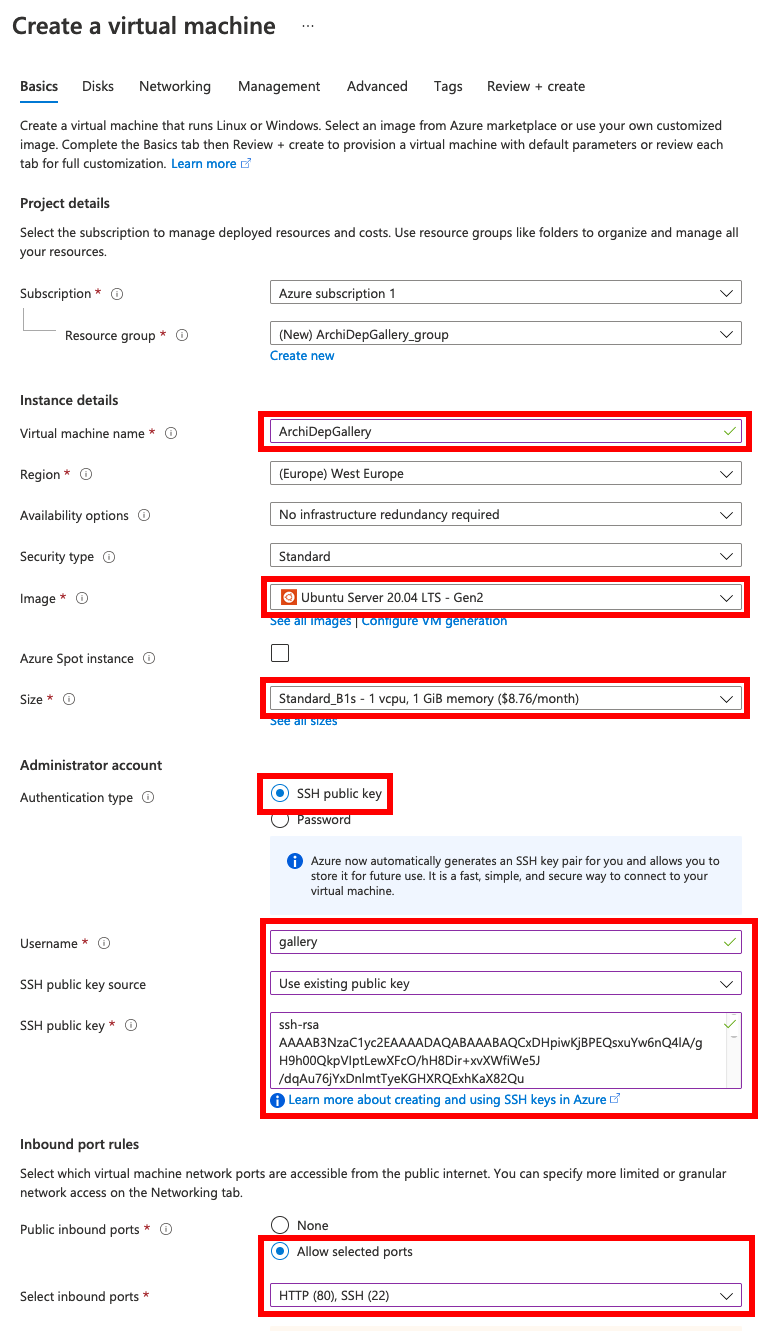
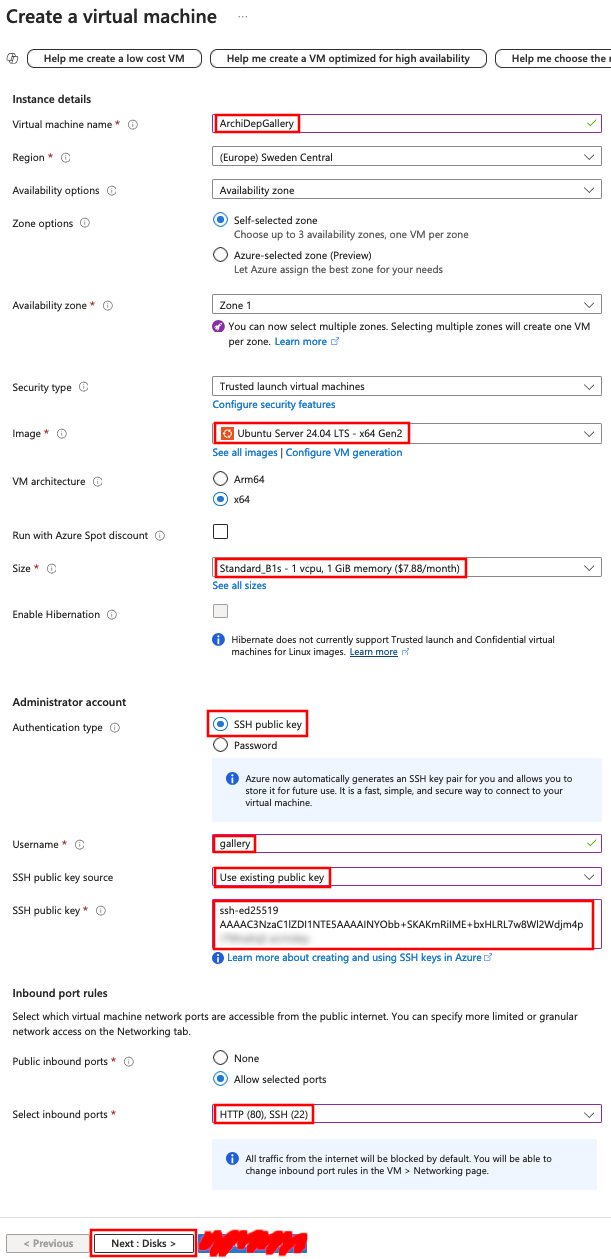
Update security gallery exercise

Changed region(s): [[0.0, 0.0, 0.9951, 1.0], [0.8396, 0.031, 1.0, 0.062], [0.964, 0.0929, 0.9951, 0.1239]]

diff --git a/ex/security-gallery.md b/ex/security-gallery.md
@@ -29,10 +29,20 @@ You will launch a virtual server to deploy the vulnerable application.
   machines** section:
 
   ![Azure Portal](../images/azure-portal.png)
-
-- Create a new virtual machine with these settings:
+- Create a new virtual machine with these settings, then go to the
+  **Disks** settings:
 
   ![Gallery virtual machine](../images/ex-gallery-azure.png)
+- Keep the default **Disks** settings.
+
+  Go to the **Networking** settings:
+
+  ![Azure: go to the networking settings](../images/azure-vm-go-to-networking.png)
+- In the **Networking** settings, enable the option to automatically **Delete
+  public IP and NIC when VM is deleted**:
+
+  ![Gallery virtual machine](../images/ex-gallery-azure-networking.png)
+- Create the VM.
 
 ## Set up the image gallery application
 
